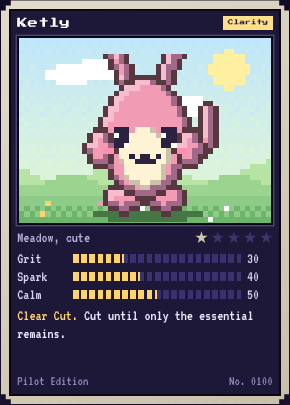
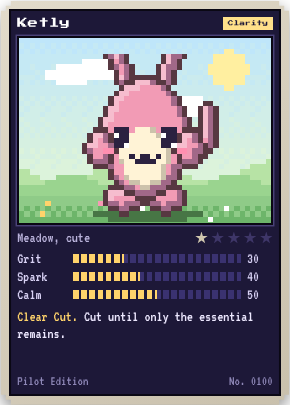
0.47 the whole journal: Hearth photo, letter, note, ink boxes and index; Map lines on the page; paper sheets; Forge sorted Ready/Still/Made; close-up journal page; Settings bookplate; qa_47; qa_ref regenerated (journal backdrop at card corners)
Claude-Session: https://claude.ai/code/session_01QDdhyVssYqHWJxPU9MAKTK

diff --git a/base47.html b/base47.html
@@ -3,7 +3,7 @@
 <head>
 <meta charset="utf-8">
 <meta name="viewport" content="width=device-width, initial-scale=1, viewport-fit=cover">
-<title>Forgelings (prototype 0.46.0)</title>
+<title>Forgelings (prototype 0.47.0)</title>
[2 lines of base64/hex data omitted]
 <meta name="apple-mobile-web-app-title" content="Forgelings">
@@ -963,6 +963,74 @@ html.jr:not(.reduce) main>section.enter>*:nth-child(n+5){animation-delay:.16s}
 html.jr .app #view-today .hero{background:none !important;clip-path:none !important;box-shadow:none !important;border:0 !important}
 html.jr .app :is(.group,.panel-box,.setblock){background:none !important;box-shadow:none !important}
 
+
+/* ================= 0.47: the rest of the journal, and fixes from the 0.46 review ================= */
+/* Today: the tape no longer crosses the date line */
+html.jr .app .herocard{margin-top:14px !important}
+html.jr .app .herocard::before{left:-8px;top:-10px}
+html.jr .app .herocard::after{right:-8px;top:-10px}
+/* the Hearth: a taped-in photo, a letter, a note, hand-drawn boxes, an index */
+html.jr .app .hearthwrap{border:0 !important;border-radius:0 !important;clip-path:none !important;background:var(--jmount) !important;padding:7px;transform:rotate(-.8deg);box-shadow:0 6px 14px rgba(40,28,20,.28);position:relative;overflow:visible;margin:8px 4px 4px}
+html.jr .app .hearthwrap canvas{display:block;width:100%}
+html.jr .app .hearthwrap::before,html.jr .app .hearthwrap::after{content:'';position:absolute;width:56px;height:17px;background:var(--jtapec);top:-9px;z-index:2;pointer-events:none}
+html.jr .app .hearthwrap::before{left:-12px;transform:rotate(-30deg)}
+html.jr .app .hearthwrap::after{right:-12px;transform:rotate(28deg)}
+html.jr .app .tale.new{position:relative;border-radius:0;background:linear-gradient(180deg,#F3E8CC 0 49%,#E6D7B4 49% 51%,#F3E8CC 51%);color:#2E2A47;padding:12px 14px 12px 50px;box-shadow:0 3px 0 #D9C69C}
+html.jr .app .tale.new::before{content:'';position:absolute;left:12px;top:14px;width:26px;height:26px;border-radius:50%;background:#A8323F;box-shadow:inset 0 0 0 4px #8A2230,0 3px 0 #6E1A24}
+html.jr .app .tale.new :is(b,p,.muted){color:#2E2A47}
+html.jr .app .tale.new p:not(.muted){font-style:italic;color:#4B3C8C}
+html.jr .app .mecho{background:#FFF8DC !important;color:#2E2A47;transform:rotate(.8deg) !important;box-shadow:0 3px 8px rgba(40,28,20,.18);clip-path:polygon(0 3px,6% 0,13% 3px,20% 0,28% 3px,36% 0,44% 3px,52% 0,60% 3px,68% 0,76% 3px,84% 0,92% 3px,100% 0,100% 100%,0 100%)}
+html.jr .app .mecho :is(h2,p,.q){color:#2E2A47}
+html.jr .app .mecho .mine{color:#5A3A00;background:rgba(255,211,107,.35)}
+html.jr .app .mecho .chips button{background:#EFE2C4;color:#2E2A47}
+html.jr .app .act{border:2px solid var(--ink) !important;border-radius:0 !important;clip-path:none !important;background:none !important;color:var(--ink) !important;box-shadow:none !important;font:700 calc(var(--hs)*22px)/1 var(--hand) !important}
+html.jr .app .act small{font:700 12px/1.2 var(--body);color:var(--muted)}
+html.jr .app .act .hic{color:var(--ink) !important}
+html.jr .app .actions .act:nth-child(odd){transform:rotate(-.8deg)}
+html.jr .app .actions .act:nth-child(even){transform:rotate(.7deg)}
+html.jr .app .act.ready{background:#FFD36B !important;border-color:#C98A12 !important;color:#2E2A47 !important}
+html.jr .app .act.ready :is(small,.hic){color:#2E2A47 !important}
+html.jr .app .hmore{display:flex;flex-direction:column;gap:0;margin-top:4px}
+html.jr .app .hmore .chip{display:flex;width:100%;justify-content:space-between;background:none !important;box-shadow:none !important;border:0 !important;border-bottom:2px dotted var(--line) !important;border-radius:0;padding:0 2px;min-height:44px;font:700 calc(var(--hs)*21px)/1 var(--hand);color:var(--ink)}
+html.jr .app .hmore .chip::after{content:'\203A';font:400 22px/1 var(--body);color:var(--muted)}
+/* the Map: your lines and realm headers are written on the page */
+html.jr .app :is(.calling,.realm){background:none;border:0;border-left:4px solid var(--rc,var(--plum));border-radius:0;padding:4px 0 4px 12px;margin:10px 0 14px}
+html.jr .app :is(.calling,.realm) b{font:700 calc(var(--hs)*24px)/1 var(--hand)}
+html.jr .app .mine{border-radius:0}
+/* sheets: options are ink boxes, chips are paper tabs, fields are paper */
+html.jr .sheet :is(.chip,.fchip,.pill){border:0 !important;border-radius:0 !important;clip-path:none !important;background:#EFE2C4;color:#2E2A47;box-shadow:0 2px 0 #E3D3AE}
+html.jr[data-page="lamp"] .sheet :is(.chip,.fchip,.pill){background:rgba(255,255,255,.09);color:var(--ink);box-shadow:0 2px 0 rgba(0,0,0,.3)}
+html.jr .sheet :is(.chip,.fchip,.pill)[aria-pressed="true"]{background:#FFD36B !important;color:#2E2A47 !important;box-shadow:0 2px 0 #C98A12 !important}
+html.jr .sheet .moodbtn{border:2px solid var(--ink);border-radius:0;background:var(--jpaper2);color:var(--ink);box-shadow:none}
+html.jr .sheet .moodbtn span{color:var(--muted)}
+html.jr :is(.sheet,.app) .field :is(input,textarea,select),html.jr :is(.sheet,.app) textarea.box{background:var(--jpaper2) !important;color:var(--ink) !important;border:2px solid var(--ink) !important;border-radius:0 !important;clip-path:none !important}
+html.jr :is(.sheet,.app) .field :is(input,textarea)::placeholder{color:var(--muted);opacity:1}
+html.jr .sheet .forgel li.fgsec{display:block;border:0;padding:12px 0 2px;font:700 calc(var(--hs)*24px)/1 var(--hand);color:var(--ink);min-height:0}
+html.jr .sheet .forgel li.can{background:rgba(255,211,107,.18);box-shadow:inset 3px 0 0 #E0A82E;padding-left:8px}
+html.jr .sheet .forgel [data-fmake]{background:#FFD36B !important;color:#2E2A47 !important;box-shadow:0 3px 0 #C98A12 !important}
+.fgsec{display:none}
+/* a Forgeling, close up: a page with the print taped in */
+.scrim.jinsp{background:var(--jdesk) !important}
+.scrim.jinsp .stageCv{display:none}
+.scrim.jinsp .ov{background:repeating-linear-gradient(transparent 0 33px,var(--jrule) 33px 34px),var(--jpaper);color:var(--ink);max-width:440px;min-height:100dvh;box-sizing:border-box;box-shadow:4px 4px 0 var(--jedge),8px 8px 0 var(--jedge2)}
+.scrim.jinsp .rv-title{font:700 calc(var(--hs)*36px)/1 var(--hand);color:var(--ink)}
+.scrim.jinsp .stage{background:var(--jmount);padding:9px;box-shadow:0 8px 16px rgba(40,28,20,.3)}
+.scrim.jinsp .stage::before{display:none}
+.scrim.jinsp .rv-hint{color:var(--world);font-style:italic}
+.scrim.jinsp .ghost{color:var(--ink) !important}
+.scrim.jinsp :is(p,.muted){color:var(--ink)}
+.scrim.jinsp .muted{color:var(--muted)}
+#ovClose{z-index:5}
+.scrim.jinsp #ovClose{color:var(--ink)}
+/* Settings: the inside cover */
+.jplate{display:none}
+html.jr .app .jplate{display:block;border:3px double var(--plum);padding:12px 14px;margin:2px 0 14px;text-align:center}
+html.jr .app .jplate .k{display:block;font:400 18px/1 var(--px2);letter-spacing:.08em;color:var(--stampink)}
+html.jr .app .jplate b{display:block;margin:6px 0 4px;font:700 calc(var(--hs)*28px)/1 var(--hand)}
+html.jr .app .jplate span:last-child{font-size:13px;color:var(--muted)}
+.scrim.jinsp .ghost{font:700 calc(var(--hs)*20px)/1 var(--hand);padding-left:3px;padding-right:3px;text-decoration:underline dashed;text-decoration-thickness:2px;text-underline-offset:5px}
+html.jr .sheet .moodbtn .home{background:#FFD36B;color:#2E2A47}
+
 </style>
 </head>
 <body>
@@ -1434,7 +1502,7 @@ document.addEventListener('visibilitychange',()=>{if(!document.hidden)wakeLoops(
 /* ================= Odds (published in Settings) ================= */
 const ODDS={daily:[55.7,27,12,5,0.3],allIn:[43.5,30,18,8,0.5],pack:[55.7,27,12,5,0.3],packLast:[0,47,37,15.4,0.6]};
 const PITY=14;
-const VERSION='prototype 0.46.0',APPVER='1.0.0';
+const VERSION='prototype 0.47.0',APPVER='1.0.0';
 /* ---- 0.32: running inside the iPhone app? (Capacitor injects window.Capacitor with its plugins.) ---- */
 const CAP=window.Capacitor,NATIVE=!!(CAP&&CAP.isNativePlatform&&CAP.isNativePlatform()),PL=(NATIVE&&CAP.Plugins)||{};
 const STORE=NATIVE||!!document.querySelector('meta[name="forge-build"][content="store"]'),EDITION=STORE?'First Edition':'Pilot Edition';
@@ -1970,6 +2038,7 @@ function inspect(id){
     <p class="rv-hint" id="inspHint">${inspHint(c)}</p>${keptAge(c)>=KEPT_DAYS?'':keptLine(c)}
     <div class="btnrow"><button class="primary" id="inspFlip">Flip card</button><button class="primary" id="inspName">Name and tale</button></div>
     <div class="row" style="justify-content:center;gap:4px 10px;flex-wrap:wrap"><button class="ghost" id="inspFav">${c.fav?'\u2605 Favorited':'\u2606 Favorite'}</button><button class="ghost" data-tale="${c.id}">Story</button><button class="ghost" id="inspShare">Share</button>${c.statue?`<button class="ghost" data-statue="${c.id}">See the statue</button>`:''}${keptAge(c)>=KEPT_DAYS?keptLine(c):''}<button class="ghost" id="ovClose">Close</button></div><div class="row" style="justify-content:center;margin-top:0"><button class="ghost" id="inspHome" aria-pressed="${state.homeFav===c.id}">${state.homeFav===c.id?'On Today \u2713':'Show on Today'}</button></div>`,true);
+  {const sc=modal.querySelector('.scrim');if(sc)sc.classList.toggle('jinsp',lsOn());}
   attachTilt($('#stage'));hydrate(modal);$('#ovClose').focus({preventScroll:true});
 }
 function talk(){
@@ -2083,7 +2152,7 @@ function renderSettings(){
   const S=state.settings,done=state.history.filter(h=>h.status==='done').length,rare=state.cards.filter(c=>c.rarity>=2).length;
   if(!setOpen)setOpen=new Set();
   const ML={cute:'Cute only',mix:'A mix',dark:'Dark only'},SK={auto:'Follows your day',day:'Always day',night:'Always lamplit',plain:'Plain'},TH={light:'Light',dark:'Dark'};
-  $('#view-settings').innerHTML=`
+  $('#view-settings').innerHTML=`<div class="jplate"><span class="k">This journal was started</span><b>${esc(dateLabel(state.startDate))}</b><span>${dayN()} ${dayN()===1?'day':'days'} kept · ${state.cards.length} ${state.cards.length===1?'Forgeling':'Forgelings'}</span></div>
     ${setSec('cards','Your cards',(state.want.length?state.want.map(i=>WANTS[i].n).join(', '):'Nothing picked yet')+(state.owns.length?' \u00B7 '+state.owns.length+' of your own':''),`<p class="muted small">What do you want more of? Pick up to three, and your daily card leans toward them.</p>
       <div class="chips" role="group" aria-label="What you want more of">${WANTS.map((w,i)=>`<button class="chip" data-swant="${i}" aria-pressed="${state.want.includes(i)}">${w.n}</button>`).join('')}</div>
       <div class="lbl2">Your own small things</div><p class="muted small">Up to three. Some days the card you turn over is one of yours, and doing it finds a Forgeling like any other day.</p>
@@ -3677,7 +3746,7 @@ function submitAge(){
 
 
 /* ================= Journal, Journey, Ribbons ================= */
-const SEEN_V=51;
+const SEEN_V=52;
 let ui={editJ:false,showFind:false,want:[],ownK:null};
 const ownK=()=>ui.ownK!=null?ui.ownK:((state.want||[])[0]!=null?state.want[0]:0);
 function openWant(){
@@ -4233,10 +4302,10 @@ function statueShelfHTML(){
 
 function openWhatsNew(){
   openSheet(`<h2>What is new</h2><p class="muted small">A few things to explore after your daily find.</p>
-    <ul class="newlist"><li><b>A field journal.</b> Forgelings is now your journal: a paper page by day and lamplight at night, ribbon bookmarks for the tabs, today’s find taped in with its calling stamped beside it, and your binder as an album of prints. Prefer the old look? Choose Plain under Look and feel. Handwriting can be switched to plain print there too.</li><li><b>Relics and gifts.</b> At the Forge, make a relic from a spare of each of a realm’s four curios. It sits on a shelf by the fire for good and adds a closing line to that realm’s old tale. You can now send a charm you forged to a friend, and curios from the other side travel too.</li><li><b>Realms in 3D.</b> Find all five places in a realm, and its page on the Map opens it as a small floating island you can turn. Tap a place to turn it into view.</li><li><b>Safer saving.</b> If Forgelings is open in two places, only one keeps your progress, so nothing gets written over. Updates and restores wait until your progress is safely saved, and if a save ever can't be read, a daily safety copy is there to bring it back.</li><li><b>Tidier pages.</b> Each page now fits on about one screen. At the Hearth, everything you do with a Forgeling is one row of buttons under the fire, and the shelf, the things by the fire and keepsakes open on their own. Old tales sit on a bookshelf and open like a book, one page at a time, and ribbons are a row of medals you can tap.</li>
+    <ul class="newlist"><li><b>The whole journal.</b> The Hearth is a taped-in photo with letters and notes beside it, the Forge lists what you can make first, a Forgeling opens on its own page, and Settings begins inside the cover. Every sheet is written on the same paper.</li><li><b>A field journal.</b> Forgelings is now your journal: a paper page by day and lamplight at night, ribbon bookmarks for the tabs, today’s find taped in with its calling stamped beside it, and your binder as an album of prints. Prefer the old look? Choose Plain under Look and feel. Handwriting can be switched to plain print there too.</li><li><b>Relics and gifts.</b> At the Forge, make a relic from a spare of each of a realm’s four curios. It sits on a shelf by the fire for good and adds a closing line to that realm’s old tale. You can now send a charm you forged to a friend, and curios from the other side travel too.</li><li><b>Realms in 3D.</b> Find all five places in a realm, and its page on the Map opens it as a small floating island you can turn. Tap a place to turn it into view.</li><li><b>Safer saving.</b> If Forgelings is open in two places, only one keeps your progress, so nothing gets written over. Updates and restores wait until your progress is safely saved, and if a save ever can't be read, a daily safety copy is there to bring it back.</li><li><b>Tidier pages.</b> Each page now fits on about one screen. At the Hearth, everything you do with a Forgeling is one row of buttons under the fire, and the shelf, the things by the fire and keepsakes open on their own. Old tales sit on a bookshelf and open like a book, one page at a time, and ribbons are a row of medals you can tap.</li>
     <li><b>A living map.</b> Every place on the map is now a little pixel landmark. Tap one to see it up close and send a Forgeling there. The realms are gently alive, with petals, smoke, glints, snow and fireflies, and while a Forgeling is out wandering you can watch it walk the trail, look around and come home.</li>
     <li><b>The other side.</b> Fully chart a realm, then forge a Crossing Lantern at the Hearth, and you can turn the map over. Each realm has a Shade twin on the back, with its own places, four new curios, an old tale told from the other side, and a ward to forge. The Shade names now live on the back of the map, so the front always shows the bright ones.</li>
-    <li><b>A living Hearth.</b> Tap a Forgeling by the fire and it hops to say hello. After 10 pm everyone dozes, and a tap wakes one up. The weather follows whoever is sitting there: petals, embers, rain, snow or fireflies. Statues you have cast now stand at the edges of the scene. On a card, tap the art and the creature hops inside its frame.</li>
+    
     
     
     
@@ -5173,8 +5242,9 @@ function fgNeeds(r){const sp=spareTotal(r.ti),e=embers(),rn=r.ti!==undefined?map
 function fgSmith(){const cs=slotCards(),c=cs[Math.min(hf.sel,cs.length-1)],out=wOut()?state.wander.id:-1;if(c&&c.id!==out)return c;return cs.find(x=>x.id!==out)||c||null;}
 function openForge(){
   const f=fgState(),s=fgSmith(),e=embers(),sp=spareTotal(),L=fgList(),made=L.filter(r=>fgMade(r.id)).length;
-  const rows=L.map(r=>{const ok=fgMade(r.id),can=fgCan(r),L=f.log[r.id];
-    return `<li class="${ok?'on':can?'can':''}"><span class="fi" aria-hidden="true">${fgImg(r.id,30)}</span><span><b>${esc(r.name)}</b><small>${r.what?r.kind+'. '+esc(r.what):r.kind}</small><small>${ok?(L&&L.by?`${L.gift?'A gift from':'Forged by'} ${esc(L.by)}, ${esc(dateLabel(L.at))}.`:'Made.'):esc(fgNeeds(r))}</small></span>${!ok&&can&&s?`<button class="chip" data-fmake="${r.id}">Make it</button>`:''}</li>`;}).join('');
+  const rk=r=>fgMade(r.id)?2:fgCan(r)?0:1,LS=L.slice().sort((a,b)=>rk(a)-rk(b));let lastRk=-1;
+  const rows=LS.map(r=>{const ok=fgMade(r.id),can=fgCan(r),L=f.log[r.id],hd=rk(r)!==lastRk?(lastRk=rk(r),`<li class="fgsec">${['Ready to make','Still to make','Made'][lastRk]}</li>`):'';
+    return hd+`<li class="${ok?'on':can?'can':''}"><span class="fi" aria-hidden="true">${fgImg(r.id,30)}</span><span><b>${esc(r.name)}</b><small>${r.what?r.kind+'. '+esc(r.what):r.kind}</small><small>${ok?(L&&L.by?`${L.gift?'A gift from':'Forged by'} ${esc(L.by)}, ${esc(dateLabel(L.at))}.`:'Made.'):esc(fgNeeds(r))}</small></span>${!ok&&can&&s?`<button class="chip" data-fmake="${r.id}">Make it</button>`:''}</li>`;}).join('');
   openSheet(`<h2>The Forge</h2><p class="muted small">${e} ${e===1?'ember':'embers'} and ${sp} spare ${sp===1?'curio':'curios'}. ${made} of ${L.length} pieces made.${s?` Whoever helps signs the piece. Today that is ${esc(s.nick||s.name)}.`:' Seat a Forgeling by the fire to help.'}</p>
     <p class="muted small">Embers come from the days you do your small thing, two on days you go all in, and they never fade. Spares are extra copies of a curio. The Forge never takes your last one, and nothing here is ever sold.</p>
     <p class="muted small" style="margin-top:6px">${esc(FG_KIND.Keepsake)}</p><ul class="furn forgel">${rows}</ul>${GIFT_F.some(fgMade)?'<button class="outline" id="fgGift" style="margin-top:8px;width:100%">Send a charm to a friend</button>':''}${statueForgeHTML()}

diff --git a/work.html b/work.html
@@ -1005,10 +1005,10 @@ html.jr .sheet .moodbtn{border:2px solid var(--ink);border-radius:0;background:v
 html.jr .sheet .moodbtn span{color:var(--muted)}
 html.jr :is(.sheet,.app) .field :is(input,textarea,select),html.jr :is(.sheet,.app) textarea.box{background:var(--jpaper2) !important;color:var(--ink) !important;border:2px solid var(--ink) !important;border-radius:0 !important;clip-path:none !important}
 html.jr :is(.sheet,.app) .field :is(input,textarea)::placeholder{color:var(--muted);opacity:1}
-html.jr .sheet .forgel li.fgh{display:block;border:0;padding:12px 0 2px;font:700 calc(var(--hs)*24px)/1 var(--hand);color:var(--ink);min-height:0}
+html.jr .sheet .forgel li.fgsec{display:block;border:0;padding:12px 0 2px;font:700 calc(var(--hs)*24px)/1 var(--hand);color:var(--ink);min-height:0}
 html.jr .sheet .forgel li.can{background:rgba(255,211,107,.18);box-shadow:inset 3px 0 0 #E0A82E;padding-left:8px}
 html.jr .sheet .forgel [data-fmake]{background:#FFD36B !important;color:#2E2A47 !important;box-shadow:0 3px 0 #C98A12 !important}
-.fgh{display:none}
+.fgsec{display:none}
 /* a Forgeling, close up: a page with the print taped in */
 .scrim.jinsp{background:var(--jdesk) !important}
 .scrim.jinsp .stageCv{display:none}
@@ -1028,7 +1028,7 @@ html.jr .app .jplate{display:block;border:3px double var(--plum);padding:12px 14
 html.jr .app .jplate .k{display:block;font:400 18px/1 var(--px2);letter-spacing:.08em;color:var(--stampink)}
 html.jr .app .jplate b{display:block;margin:6px 0 4px;font:700 calc(var(--hs)*28px)/1 var(--hand)}
 html.jr .app .jplate span:last-child{font-size:13px;color:var(--muted)}
-.scrim.jinsp .ghost{font:700 calc(var(--hs)*22px)/1 var(--hand);text-decoration:underline dashed;text-decoration-thickness:2px;text-underline-offset:5px}
+.scrim.jinsp .ghost{font:700 calc(var(--hs)*20px)/1 var(--hand);padding-left:3px;padding-right:3px;text-decoration:underline dashed;text-decoration-thickness:2px;text-underline-offset:5px}
 html.jr .sheet .moodbtn .home{background:#FFD36B;color:#2E2A47}
 
 </style>
@@ -5243,7 +5243,7 @@ function fgSmith(){const cs=slotCards(),c=cs[Math.min(hf.sel,cs.length-1)],out=w
 function openForge(){
   const f=fgState(),s=fgSmith(),e=embers(),sp=spareTotal(),L=fgList(),made=L.filter(r=>fgMade(r.id)).length;
   const rk=r=>fgMade(r.id)?2:fgCan(r)?0:1,LS=L.slice().sort((a,b)=>rk(a)-rk(b));let lastRk=-1;
-  const rows=LS.map(r=>{const ok=fgMade(r.id),can=fgCan(r),L=f.log[r.id],hd=rk(r)!==lastRk?(lastRk=rk(r),`<li class="fgh">${['Ready to make','Still to make','Made'][lastRk]}</li>`):'';
+  const rows=LS.map(r=>{const ok=fgMade(r.id),can=fgCan(r),L=f.log[r.id],hd=rk(r)!==lastRk?(lastRk=rk(r),`<li class="fgsec">${['Ready to make','Still to make','Made'][lastRk]}</li>`):'';
     return hd+`<li class="${ok?'on':can?'can':''}"><span class="fi" aria-hidden="true">${fgImg(r.id,30)}</span><span><b>${esc(r.name)}</b><small>${r.what?r.kind+'. '+esc(r.what):r.kind}</small><small>${ok?(L&&L.by?`${L.gift?'A gift from':'Forged by'} ${esc(L.by)}, ${esc(dateLabel(L.at))}.`:'Made.'):esc(fgNeeds(r))}</small></span>${!ok&&can&&s?`<button class="chip" data-fmake="${r.id}">Make it</button>`:''}</li>`;}).join('');
   openSheet(`<h2>The Forge</h2><p class="muted small">${e} ${e===1?'ember':'embers'} and ${sp} spare ${sp===1?'curio':'curios'}. ${made} of ${L.length} pieces made.${s?` Whoever helps signs the piece. Today that is ${esc(s.nick||s.name)}.`:' Seat a Forgeling by the fire to help.'}</p>
     <p class="muted small">Embers come from the days you do your small thing, two on days you go all in, and they never fade. Spares are extra copies of a curio. The Forge never takes your last one, and nothing here is ever sold.</p>

diff --git a/forge-handoff.md b/forge-handoff.md
@@ -1,13 +1,13 @@
 # Forge handoff (start of a new chat)
 
-Last updated October 30, 2026, at prototype **0.46.0**. Read `RELEASE_PROCESS.md` on the dev branch too: it sets the release steps (gh-pages fast-forward only, verify the live deploy for the exact SHA). This replaces the 0.16.0 handoff PDF.
+Last updated October 31, 2026, at prototype **0.47.0**. Read `RELEASE_PROCESS.md` on the dev branch too: it sets the release steps (gh-pages fast-forward only, verify the live deploy for the exact SHA). This replaces the 0.16.0 handoff PDF.
 
 ## Starting a new session
 
 1. Attach the repo with push access: owner `img0j0`, repo `forge`.
-2. Clone the **`dev` branch**. It holds the whole build workspace: the current build (`work.html` = `base46.html`), every patch script, `pwa.py`, the legal pages, curio art, tools and the full QA suite. Its README has the setup commands and the step-by-step for a new version. Nothing needs to be attached.
+2. Clone the **`dev` branch**. It holds the whole build workspace: the current build (`work.html` = `base47.html`), every patch script, `pwa.py`, the legal pages, curio art, tools and the full QA suite. Its README has the setup commands and the step-by-step for a new version. Nothing needs to be attached.
 3. Clone the **`ios-app`** branch separately when shipping, and copy each new build there.
-4. **Next job:** 0.46 the field journal shipped (October 31). Hunter chose direction A, the field journal, on the UI canvas (https://claude.ai/artifact/Wb4dmocNbNL9E8reVn17cr, boards "Field journal: …"). **Next: 0.47, the rest of the journal**: the Hearth ("By the fire": taped-in scene, request as a wax-sealed letter, hand-drawn action boxes, an index for shelf/relics/keepsakes), the Map (paper index tabs, margin notes), the Forge (recipe page with checkbox ingredients, a Ready tab, stamped embers), the card close-up (specimen label), Settings (the inside cover: "This journal belongs to"), and the sheets and overlays still in the old navy. Journal rules: three hands — your words handwritten (`--hand`, Caveat 700, never under 20 px), the world's words in italic world ink (`--world`), the Forge's stamps in VT323; journal variables are all `--j…` (never reuse `--paper`, `--stamp`: the map and calendar own those). Lamplight (`data-page="lamp"`, `jrLamp()`) at dusk, night or Dark; `data-theme` follows the page in the journal. Plain keeps the old flat look and hides the Writing choice; Plain print (`settings.hand=false`, `html.plainhand`) swaps handwriting for Fredoka. Gift links: bright curios v1, Shade curios and charms v2 (`GIFT_F`). The app is about 805 KB of the 1 MB soft budget (Caveat adds 63 KB). Patches read `base46.html`; bump VERSION, the `<title>` and SEEN_V (to 52). qa_ref compares ten fixed-seed cards, one statue and the Meadow island (isle00) with images in `qa/ref/`: if a release changes the art on purpose, rerun it with `REF_UPDATE=1` and say so in its row. Check new UI at night as well as by day (qa_contrast). Keep pages short: qa_43 caps each page's length in screens, so new features go in sheets (`openHSheet`, `jSheet`, `.csheet`) rather than on the page.
+4. **Next job:** 0.47 the whole journal shipped (October 31), finishing the field journal. **Next: Hunter's call** between the App Store 1.0 path (store listing in the project, native build, device tests, TestFlight) and 1.1 Keeper's Anvil. Journal rules: three hands — your words handwritten (`--hand`, Caveat 700, never under 20 px), the world's words in italic world ink (`--world`), the Forge's stamps in VT323; journal variables are all `--j…` (never reuse `--paper`, `--stamp`: the map and calendar own those). Lamplight (`data-page="lamp"`, `jrLamp()`) at dusk, night or Dark; `data-theme` follows the page in the journal. Plain keeps the old flat look and hides the Writing choice; Plain print (`settings.hand=false`, `html.plainhand`) swaps handwriting for Fredoka. Gift links: bright curios v1, Shade curios and charms v2 (`GIFT_F`). The app is about 812 KB of the 1 MB soft budget (Caveat adds 63 KB). Patches read `base47.html`; bump VERSION, the `<title>` and SEEN_V (to 53). Class names: check the build before adding one (0.47 found `.fgh` was already the Forge's Statues heading). qa_ref compares ten fixed-seed cards, one statue and the Meadow island (isle00) with images in `qa/ref/`: if a release changes the art on purpose, rerun it with `REF_UPDATE=1` and say so in its row. Check new UI at night as well as by day (qa_contrast). Keep pages short: qa_43 caps each page's length in screens, so new features go in sheets (`openHSheet`, `jSheet`, `.csheet`) rather than on the page.
 5. After shipping, push the updated `dev` branch and handoff, swap the project's `claude/Forge (prototype X).html` copy, and republish the Claude page.
 
 ## Where things stand
@@ -16,8 +16,8 @@ Last updated October 30, 2026, at prototype **0.46.0**. Read `RELEASE_PROCESS.md
 
 - **Live app:** https://img0j0.github.io/forge/. It's installable (Add to Home Screen) and works offline. Hunter uses it daily on his iPhone, and it also works in Edge.
 - **Testing:** Hunter uses it himself, then friends and family. The invite text asks testers to send feedback with **Settings → Send my report**.
-- **Claude copy:** the Forge page at https://claude.ai/artifact/QgLcL9SXJ3BWaWHzJSQo5w (version 83 = 0.46.0). This copy still shows the prototype tools, so use it for testing and demos. The Claude page can't save files, so Save picture and the backup file do nothing there; they work on the live link. A separate artifact (7Dwvf5MirwuPuAGLm3aypU) is stuck at 0.21.0 and can be ignored or deleted.
-- **Project copy:** `claude/Forge (prototype 0.46.0).html`.
+- **Claude copy:** the Forge page at https://claude.ai/artifact/QgLcL9SXJ3BWaWHzJSQo5w (version 84 = 0.47.0). This copy still shows the prototype tools, so use it for testing and demos. The Claude page can't save files, so Save picture and the backup file do nothing there; they work on the live link. A separate artifact (7Dwvf5MirwuPuAGLm3aypU) is stuck at 0.21.0 and can be ignored or deleted.
+- **Project copy:** `claude/Forge (prototype 0.47.0).html`.
 
 ## Design rules
 
@@ -88,6 +88,7 @@ Last updated October 30, 2026, at prototype **0.46.0**. Read `RELEASE_PROCESS.md
 | 0.41.0 | **The other side** (Forge design doc, Hunter took all eight recommendations on October 28). Shade realm index `si` = 5..9 is the twin of bright realm `si-5`; everything is derived: `hasLantern()` (`forge.made` has `xlantern`), `shadeOpen(si)` = lantern + `placesFound(si-5)===5`, `shadeOpenList()`, `rReach(t)` (front: known; back: open). **Crossing Lantern** `xlantern` (Tool, `multi:3`: one spare from each of 3 front realms via `spareRealms()`, 6 embers, needs `chartedCount()>=1`); always listed, first once a realm is charted (`fgList()`), Forge panel line `#hLantern` 'A charted realm is waiting for a lantern'; the made sheet has `#fgTurn` 'Turn the map over'. Named so it never mixes with the request keepsake 'Little lantern' (`lantern`). **Map back**: `turnHTML()` `#mapTurn` (44 pt, aria-pressed), `ch.side`, `mapBackHTML()` in night ink (`.mapwrap.mback` re-declares paper and ink tokens in every look), outlines mirrored (`SMAPP`, `polyOf(ti)`), sea from `seaPts(true)`, unlit realms fogged with '?', lantern in the compass spot, no counts (`BACK_NOTES` words). `shadePageHTML(si)` (`SREALM_TXT`, places 'on the back of the map', Shade tale line, `data-wto=si`). **Front names are bright for every mood** (`mapName(ti)`: 0-4 bright, 5-9 Shade; map `dkOf` is false; the world line too). **Content**: `SCURIOS` (20: thorn seed nest rosehip / cinder obsidian ring ash / bottle pearl anchor seaglass / mitten stillstone icicle snowglass / letter inkpot locket mirror; art in `curios/sprites.py`, contact sheet now takes an output folder), `ALLC`, `cuById`, `CREALM` 5-9, `PLACES`/`TALES` pushed to 10 entries (Shade tales: The Keepers of the Edge, What Inferno Holds, The Questions Deep, The Shape of the Quiet, The Unsent Letters). **Wanders**: realm 0-9 (`wanderStart` only to `rReach`), Shade destinations under 'On the other side, by lantern' with **Home** for a Shade Forgeling's own twin; Anywhere includes open Shade realms; one new find a day still; Shade places use `state.explore[si]` (first place on crossing); finishing a front realm says its twin is lit (or that a lantern could show it). **Shelf** gets 'The other side' and 10 planks after the lantern (`shelfSet()`, `haveN()`: counts out of 40). **Tales** gets 'Tales from the other side' (`taleBlock(ti)`). **Wards** `ward0..4` (ti 5-9, 2 Shade spares + 3 embers, `shade:1` = hidden until the lantern), worn by anyone: palette slots 24-28 (`WARD_COL`, `CH` F H I J K), pendant in `buildSprite`, icon `FGSPR.ward` with `FCOL` 5-9, badge via `charmOf`. Compass points across. Gifts stay front-only (`CURIOS`). Ribbons `cross1` Lantern Light and `shade5` Both Sides, hidden until the lantern (`hide`). Sanitize: explore keys 0-9, wander.realm 0-9, curios/firstFind/hearth.curio against `ALLC`. Report: lantern, Shade realms lit, Shade curios. Prototype tool **The other side** (`shade`: charts known realms, forges the lantern, turns the map). What's New (SEEN_V 46). Tests updated: qa_35 (eleven recipes), qa_map (dark mood shows bright names), qa_27 (out-of-range explore key is 17). QA: qa_41 (47). 670 KB. Live as gh-pages/main 6b16756, ios-app ce9bbba. |
 | 0.41.1 | **Statue links** (Hunter, October 28: share the full 3D statue, not just a picture). The statue viewer has **Share a link** (`#stLink`, `statueLinkSend`): `GIFT_BASE#statue=<base64url JSON>` with only {v, e seed, t realm, d Shade, r rarity, k calling, n name ≤24, a cast date, p cast keepsake}; `state.statueLinks` counts sends (report). `statueLinkRead` validates (`statueLinkCheck`: ranges, date, `stKeepOK` keepsake ids) and clears the hash; `openStatueLink` rebuilds a card-like object (`statueLinkCard`, id -2, bond Forgebound) and shows it with `statueView` (Turntable, Stand). **Display only**: nothing is added. A new visitor sees it before the title/18+ check (`statueLinkMaybe(true)` at boot), with a line about the game, **Get Forgelings** (`#stGet`) and **Just looking**; closing goes on to the title (or onboarding) via the `closeModal` hook. Players get it once nothing else is open (also on `hashchange`). Broken links toast 'That statue link looks broken'. Privacy note (in-app and `legal/page.py`) mentions statue links. Statues What's New line mentions links (no SEEN_V bump). QA: qa_411 (29). Live as gh-pages/main 46e9294, ios-app 734a036. |
 | 0.42.0 | **The living map** (Hunter, October 28: the map could use an enhancement; he picked A+B from the map canvas, with voxel dioramas next). **Pixel landmarks:** every found place is a small pixel sprite (`LMSPR`, coloured per realm by `lmPal`, drawn as paths by `lmPaths`, scale `LMU`=2.0) in `placesSVG`, nudged up (`lift`) so it never sits on a realm name; front and back. Each has its own 44-pt target (`.mpplace`, r=26 circles from `placeHits`, `data-place="ti:k"`, keyboard Enter too) opening `openPlace`: big art (`svg.lmbig` with a halo), name, line, "Send … to wander here" (`data-wto`) and "Open X's page" (`data-realmopen`); Shade close-ups say it is on the other side. **Living canvas:** `<canvas class="mpfx" aria-hidden>` over each `.mapwrap`; `mapFxLoop` runs on a 80 ms `setTimeout` (about 12 frames a second) only while the Map tab is showing, so nothing draws on other tabs; `wakeLoops` restarts it. `mapFxDraw`: gentle realm weather (Meadow petals, Ember smoke, Tide glints, Frost snow, Dusk fireflies; Shade realms drift glowing motes), the place found today glows (`state.lastPlace` {ti,k,d}, set in `wanderCollect`, sanitized), and a Forgeling out wandering walks a curved trail to its realm (drawn with `spriteURL`, position from real wander progress). Reduce Motion: one still frame with the wanderer, no weather. Map caption mentions landmarks. What's New "A living map." (SEEN_V 47; "The Forge." note dropped). Runner: qa_17 and qa_181 now run over http too (0.41.1 failed them on file:// the same way). QA: qa_42 (27). 685 KB. Live as gh-pages/main 2428c41, ios-app 4694914. |
+| 0.47.0 | **The whole journal** (finishes Hunter's field journal, direction A). **Hearth:** the scene is a taped-in photo (white mount, tape), a request is a folded letter with a wax seal, the pocket note is torn paper, the actions are hand-drawn ink boxes (Ready ones gold), and shelf/fire/keepsakes/who sits are an index of 44-point rows. **Map:** your lines and realm headers are written on the page with a realm-coloured rule. **Sheets:** chips are paper tabs (gold when pressed), mood options ink boxes, fields and text boxes square paper with an ink rule. **Forge:** pieces sort under Ready to make, Still to make, Made (`li.fgsec` headings, not pieces). **Close-up:** a Forgeling opens on a ruled journal page (`.scrim.jinsp`, desk behind, starfield hidden) with its print in a white mount. **Settings:** opens with the bookplate (`.jplate`: started date, days kept, Forgelings). **Fix:** Today's tape no longer crosses the date line. What's New leads with "The whole journal." (eight notes kept). qa_47 (25 checks, day and lamp, axe). qa_385, qa_39, qa_40 follow the journal's paper fields and the rolled-off notes. **qa_ref regenerated with `REF_UPDATE=1`:** the card art is unchanged, but the close-up's paper backdrop shows at the card corners. 812 KB. |
 | 0.46.0 | **The field journal** (Hunter picked direction A on the UI canvas Wb4dmocNbNL9E8reVn17cr). The living sky is retired for the journal (`html.jr` when the Page setting isn't Plain; the sky canvas stays hidden): a ruled paper page with a red margin on a wooden desk, lamplit (indigo paper, cream ink, warm glow) at dusk, night or Dark; ribbon bookmarks for tabs, each its own colour, the open page's ribbon longer. Type: page titles handwritten in Caveat 700 (bundled, OFL, Latin subset, 47 KB), dates stamped in VT323. Panels become parts of the page (no boxes; dotted rules; index-style rows with handwritten titles). Buttons: gold primary with press edge, ink outline, handwritten dashed-underline ghost links, paper-tab chips. **Today:** the find is a taped-in print (white mount, two strips of tape, slight tilt), its line and mirror sentence handwritten beside it, and the day's calling as a red ink stamp (`.jstamp`, aria-hidden); mood picks are ink stamps. **Binder:** an album of tilted prints with handwritten captions (`.jcap`, nickname or name; button names now include the nickname so the visible text matches), still nine to a page. **Cover:** first open is a leather journal (stitching, elastic band, gold wordmark, a paper label with a Forgeling and the tagline). **Settings:** "Sky" is now "The page" (Follows your day / Always day / Always lamplit / Plain) and a new Writing choice (Handwriting / Plain print). Other pages take the paper and type now; their own layouts come in 0.47. Tests updated on purpose: qa_351 rewritten for the journal (33), qa_181 reads the page instead of the sky colour (30), qa_223 checks pixel frames in Plain, qa_301 font list adds Caveat, qa_383 Look and feel copy, qa_441 sun check only when a sky is drawn. New qa_46 (18). SEEN_V 51. About 805 KB. |
 | 0.45.0 | **Relics and gifts** (Forge design doc). **Relics:** ten recipes `relic0`–`relic9` (kind Relic, `rt` = realm), each a spare of every one of that realm's four curios plus 8 embers; Shade relics list with the lantern. A relic sits on a shelf drawn above the right-hand seat by the fire (one plank at y 21, small 3×5 reliquaries in fixed slots, clear of three seated Forgelings and the sun), adds a closing line (`RELIC_END`) after the ending on the last page of its old tale, and the realm page says "Its relic is by your fire." The forge result offers "Read the closing line", which opens the tale at page 4. **Gifts:** the shelf's button is now "Send a gift to a friend"; the sheet offers curios from both sides and any charm or ward you forged (the Forge also has "Send a charm to a friend"). The sender keeps theirs. A received charm goes into the friend's Forge as "A gift from <name>" and can be worn by any of their Forgelings; a second copy is kept as a thank-you. Bright curios stay v1 links; Shade curios and charms use v2 (exactly one of `c` or `f`; relics can't be sent). Forge rows with no record read "Made." What's New leads with Relics and gifts (The Scribe rolled off). Tests updated on purpose: qa_29 (gift sheet copy), qa_35 and qa_41 (piece counts 16/26), qa_41 (Shade curios now giftable). New qa_45 (36 checks). SEEN_V 50. About 726 KB. |
 | 0.44.2 | **Night contrast fix** (Hunter's 10pm screenshot). The "See <realm> in 3D" button on a realm page used the app's surface colour, which is dark navy at night and in the dark theme, under the paper's dark ink: 1.18:1 on all ten realms. `.parch .chip.isgo` now carries paper colours (#FFFDF6, ink #2E2A47, 2px ink outline) in every mode. axe missed it because it skips text over translucent backgrounds. New **qa_contrast**: computes every visible text's colour against the background it actually sits on (composited, gradients read, paper counted) on every screen, all ten realm pages and the Hearth sheets, at 13:30 and 22:00 in light and dark themes; 4.5:1, 3:1 for large text. It fails on 0.44.1 and finds nothing else. When adding UI, check it at night too. SEEN_V stays 49. About 719 KB. |

diff --git a/README.md b/README.md
@@ -14,7 +14,7 @@ This branch holds everything needed to keep building Forgelings in a fresh sessi
 
 | Path | What it is |
 |---|---|
-| `work.html`, `base46.html` | The current build, 0.46.0 (identical files) |
+| `work.html`, `base47.html` | The current build, 0.47.0 (identical files) |
 | `history/patchNN.py` | Every version's patch script, for reference |
 | `pwa.py` | Packs `work.html` into `pwa/` (the website) |
 | `legal/` | `page.py` builds privacy, terms and support pages into `legal/out/` |
@@ -26,9 +26,9 @@ This branch holds everything needed to keep building Forgelings in a fresh sessi
 
 ## Making the next version
 
-1. Write `patch47.py` at the top of this folder. It reads `base46.html`, applies count-asserted `rep(old, new)` edits and writes `work.html`. Copy the shape of `history/patch46.py` (its stylesheet is `journal46.css` beside it). Bump the title, `VERSION`, `SEEN_V` (to 52) and add a What's New entry.
+1. Write `patch48.py` at the top of this folder. It reads `base47.html`, applies count-asserted `rep(old, new)` edits and writes `work.html`. Copy the shape of `history/patch47.py` (its stylesheet is `journal47.css` beside it). Bump the title, `VERSION`, `SEEN_V` (to 53) and add a What's New entry.
 2. Check the script: extract the `<script>` and run `node --check` on it.
 3. Add `qa/qa_44.py` for the new feature, add it to `qa/runall.sh`, and run the full suite.
 4. Ship: `python3 pwa.py`, copy `pwa/` into a clone of `main`, commit, then `git push origin main` and `git push origin main:gh-pages`.
 5. Copy `work.html` to the `ios-app` branch as `forgelings.html`, then run `python3 build-www.py` and `npx cap sync ios` there, and push.
-6. Here: `cp work.html base46.html`, `git rm` the previous base copy, move `patch46.py` into `history/`, update `forge-handoff.md`, and push this branch.
+6. Here: `cp work.html base48.html`, `git rm` the previous base copy, move `patch48.py` into `history/`, update `forge-handoff.md`, and push this branch.

diff --git a/RELEASE_PROCESS.md b/RELEASE_PROCESS.md
@@ -72,3 +72,4 @@ Update 0.44.2: patches now read base442.html (= work.html); base441.html removed
 Update 0.45.0: patches now read base45.html (= work.html); base442.html removed (git keeps it). runall.sh adds qa_45.
 
 Update 0.46.0: patches now read base46.html (= work.html); base45.html removed (git keeps it). patch46.py reads journal46.css (kept in history/ with it) and the Caveat subset from the scratchpad at build time; base46.html already contains both, so later patches need neither. runall.sh adds qa_46.
+Update 0.47.0: patches now read base47.html (= work.html); base46.html removed (git keeps it). patch47.py reads journal47.css (both in history/). qa_ref references regenerated on purpose (journal backdrop at the card corners; art unchanged).
